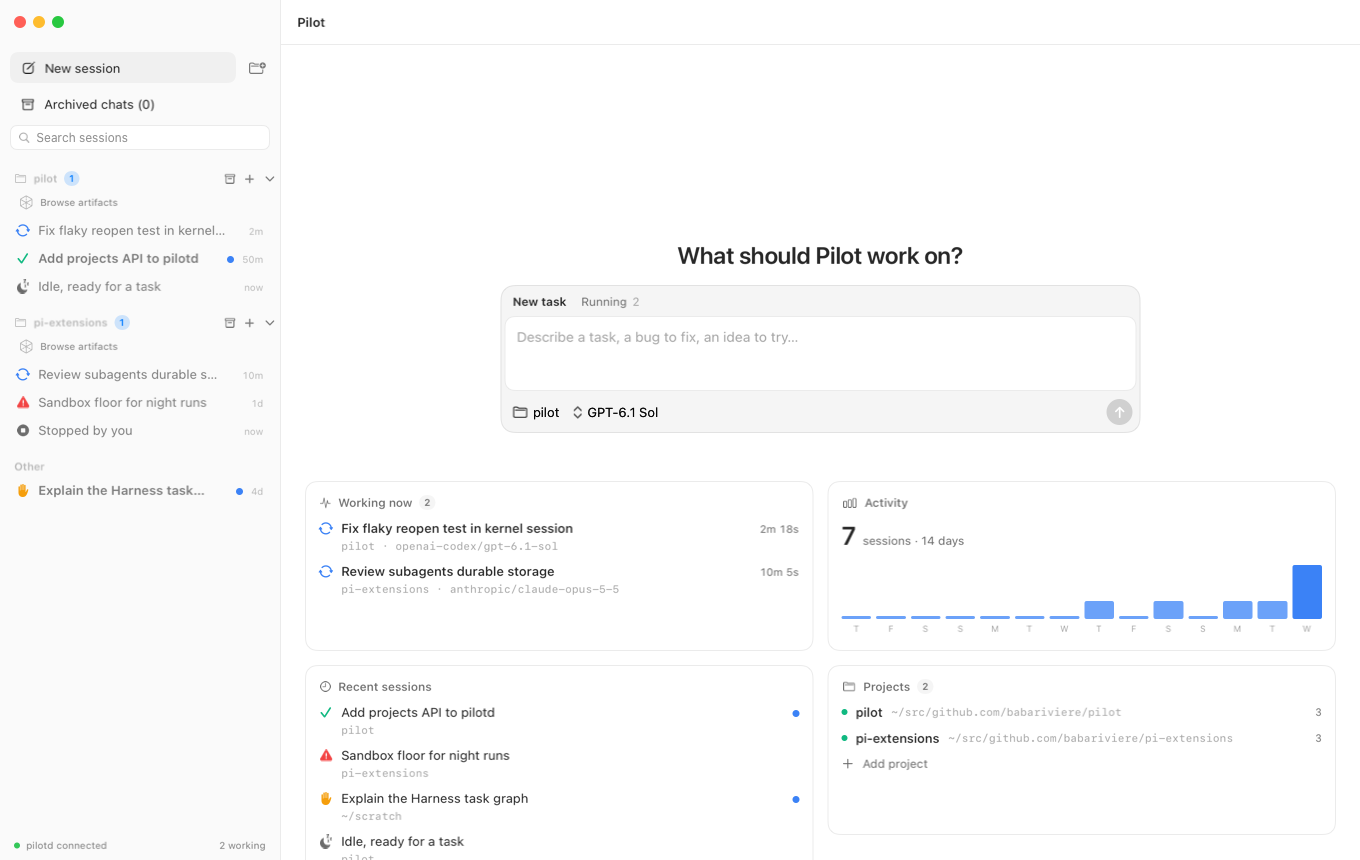
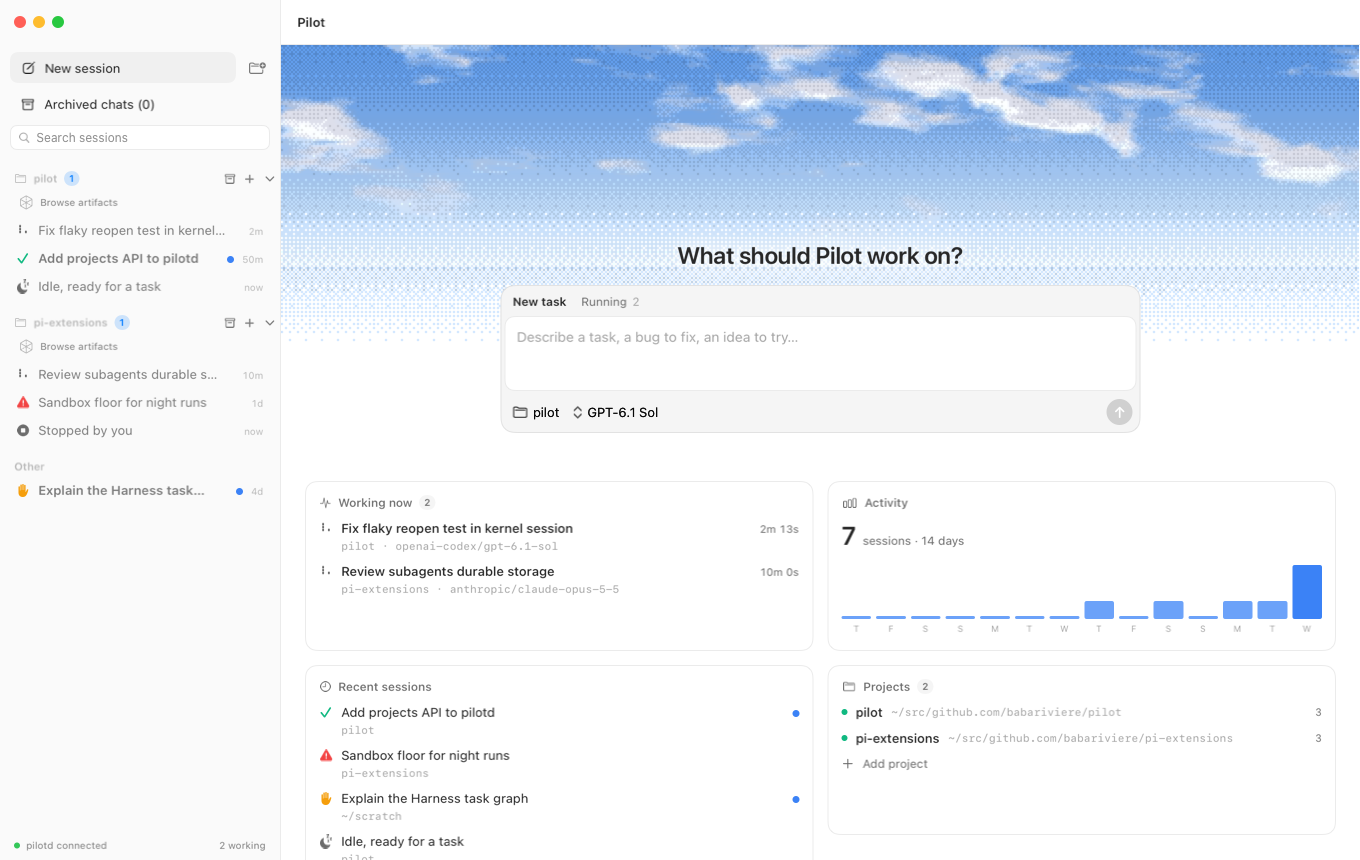
feat(macos): use a text-colored braille spinner while working

Changed region(s): [[0.1853, 0.0302, 1.0, 0.393]]

diff --git a/apps/macos/Tests/PilotTests/SessionStatusIconTests.swift b/apps/macos/Tests/PilotTests/SessionStatusIconTests.swift
@@ -4,9 +4,8 @@ import SwiftUI
 import Testing
 @testable import Pilot
 
-@Test func sessionStatusesUseDistinctAvailableSymbols() {
+@Test func settledSessionStatusesUseDistinctAvailableSymbols() {
     let symbols: [(SessionStatus, String)] = [
-        (.working, "arrow.triangle.2.circlepath"),
         (.done, "checkmark"),
         (.needsInput, "hand.raised.fill"),
         (.failed, "exclamationmark.triangle.fill"),
@@ -18,10 +17,29 @@ import Testing
         #expect(status.symbolName == symbol)
         #expect(NSImage(systemSymbolName: symbol, accessibilityDescription: nil) != nil)
     }
+    #expect(SessionStatus.working.symbolName == nil)
 }
 
-@Test func sessionStatusIconsKeepTheirExistingColors() {
-    #expect(SessionStatus.working.color == Theme.info)
+@Test func brailleProgressAdvancesAndLoops() {
+    #expect(BrailleProgress.frames.count == 10)
+    #expect(Set(BrailleProgress.frames).count == 10)
+    for index in 0..<20 {
+        let date = Date(timeIntervalSinceReferenceDate: Double(index) * BrailleProgress.interval + 0.01)
+        #expect(BrailleProgress.frameIndex(at: date) == index % 10)
+    }
+    #expect(BrailleProgress.frameIndex(at: Date(timeIntervalSinceReferenceDate: -0.01)) == 9)
+}
+
+@Test func brailleProgressUsesFixedSizeTemplateImages() {
+    #expect(BrailleProgress.images.count == BrailleProgress.frames.count)
+    for image in BrailleProgress.images {
+        #expect(image.isTemplate)
+        #expect(image.size == NSSize(width: 14, height: 14))
+    }
+}
+
+@Test func sessionStatusIconsUseNeutralWorkingAndColoredOutcomes() {
+    #expect(SessionStatus.working.color == Theme.foreground)
     #expect(SessionStatus.done.color == Theme.success)
     #expect(SessionStatus.needsInput.color == Theme.warning)
     #expect(SessionStatus.failed.color == Theme.destructive)

diff --git a/apps/macos/Sources/Pilot/Theme.swift b/apps/macos/Sources/Pilot/Theme.swift
@@ -128,9 +128,18 @@ struct ChipLabel: View {
 /// Colored agent status symbol, with details available without adding row text.
 struct SessionStatusIcon: View {
     let status: SessionStatus
+    @Environment(\.accessibilityReduceMotion) private var reduceMotion
 
     var body: some View {
-        Image(systemName: status.symbolName)
+        Group {
+            if let symbolName = status.symbolName {
+                Image(systemName: symbolName)
+            } else {
+                TimelineView(.animation(minimumInterval: BrailleProgress.interval, paused: reduceMotion)) { context in
+                    Image(nsImage: BrailleProgress.images[reduceMotion ? 0 : BrailleProgress.frameIndex(at: context.date)])
+                }
+            }
+        }
             .font(.system(size: 12, weight: .semibold))
             .symbolRenderingMode(.monochrome)
             .foregroundStyle(status.color)
@@ -147,9 +156,9 @@ struct SessionStatusIcon: View {
 }
 
 extension SessionStatus {
-    var symbolName: String {
+    var symbolName: String? {
         switch self {
-        case .working: "arrow.triangle.2.circlepath"
+        case .working: nil
         case .done: "checkmark"
         case .needsInput: "hand.raised.fill"
         case .failed: "exclamationmark.triangle.fill"
@@ -160,7 +169,7 @@ extension SessionStatus {
 
     var color: Color {
         switch self {
-        case .working: Theme.info
+        case .working: Theme.foreground
         case .done: Theme.success
         case .needsInput: Theme.warning
         case .failed: Theme.destructive

diff --git a/apps/macos/Sources/Pilot/BrailleProgress.swift b/apps/macos/Sources/Pilot/BrailleProgress.swift
@@ -1,0 +1,33 @@
+import AppKit
+
+/// The familiar ten-frame braille spinner, shared by every working-status view.
+enum BrailleProgress {
+    static let frames = ["⠋", "⠙", "⠹", "⠸", "⠼", "⠴", "⠦", "⠧", "⠇", "⠏"]
+    static let interval = 0.1
+
+    static func frameIndex(at date: Date) -> Int {
+        let tick = Int(floor(date.timeIntervalSinceReferenceDate / interval))
+        return ((tick % frames.count) + frames.count) % frames.count
+    }
+
+    /// Template images work in native menu labels as well as SwiftUI rows. Drawing
+    /// the Unicode braille dot pattern avoids font fallback and keeps a fixed box.
+    static let images: [NSImage] = frames.map { frame in
+        let pattern = Int(frame.unicodeScalars.first!.value - 0x2800)
+        // Unicode dots 1–3 and 7 are on the left; 4–6 and 8 are on the right.
+        let dots: [(CGFloat, CGFloat)] = [
+            (4, 11.5), (4, 8.5), (4, 5.5),
+            (10, 11.5), (10, 8.5), (10, 5.5),
+            (4, 2.5), (10, 2.5),
+        ]
+        let image = NSImage(size: NSSize(width: 14, height: 14), flipped: false) { _ in
+            NSColor.black.setFill()
+            for (index, dot) in dots.enumerated() where pattern & (1 << index) != 0 {
+                NSBezierPath(ovalIn: NSRect(x: dot.0 - 1, y: dot.1 - 1, width: 2, height: 2)).fill()
+            }
+            return true
+        }
+        image.isTemplate = true
+        return image
+    }
+}

diff --git a/apps/macos/Sources/Pilot/MenuBar.swift b/apps/macos/Sources/Pilot/MenuBar.swift
@@ -20,9 +20,7 @@ struct MenuBarContent: View {
                 Label {
                     Text("\(session.title)\(model.isUnread(session) ? " •" : "")")
                 } icon: {
-                    Image(systemName: session.status.symbolName)
-                        .symbolRenderingMode(.palette)
-                        .foregroundStyle(session.status.color)
+                    SessionStatusIcon(status: session.status)
                 }
             }
             .help(session.status.rawValue)

diff --git a/PLAN.md b/PLAN.md
@@ -233,8 +233,9 @@ reports), producing a morning summary in the app and Slack.
 ## 7. App (macOS)
 
 - Sidebar grouped by origin and state; badges for `waiting` sessions (they need you).
-- Manual sessions show colored status icons (working arrows, done checkmark, needs-input raised hand,
-  failed warning triangle, stopped stop symbol, idle sleeping moon), with the status
+- Manual sessions show a text-colored animated braille spinner while working, and colored status icons
+  (done checkmark, needs-input raised hand, failed warning triangle, stopped stop symbol, idle sleeping moon),
+  with the status
   in tooltips and accessibility labels, separately from worker lifecycle. Unread completion dots persist
   until reviewed, independently of the outcome:
   reading a question does not answer it. Native macOS notifications distinguish results, blocking

diff --git a/docs/screenshots/README.md b/docs/screenshots/README.md
@@ -3,7 +3,9 @@
 ## Agent status icons
 
 `status-icons.png` shows all six colored agent states in the sidebar: working, done,
-needs your input, failed, idle and stopped. Unread dots remain separate. The image
+needs your input, failed, idle and stopped. Working uses a normal-text-color braille spinner
+(a single animation frame in the screenshot). Reduce Motion keeps it static.
+Unread dots remain separate. The image
 uses deterministic fixture sessions, not live conversations.
 
 Regenerate on macOS:
